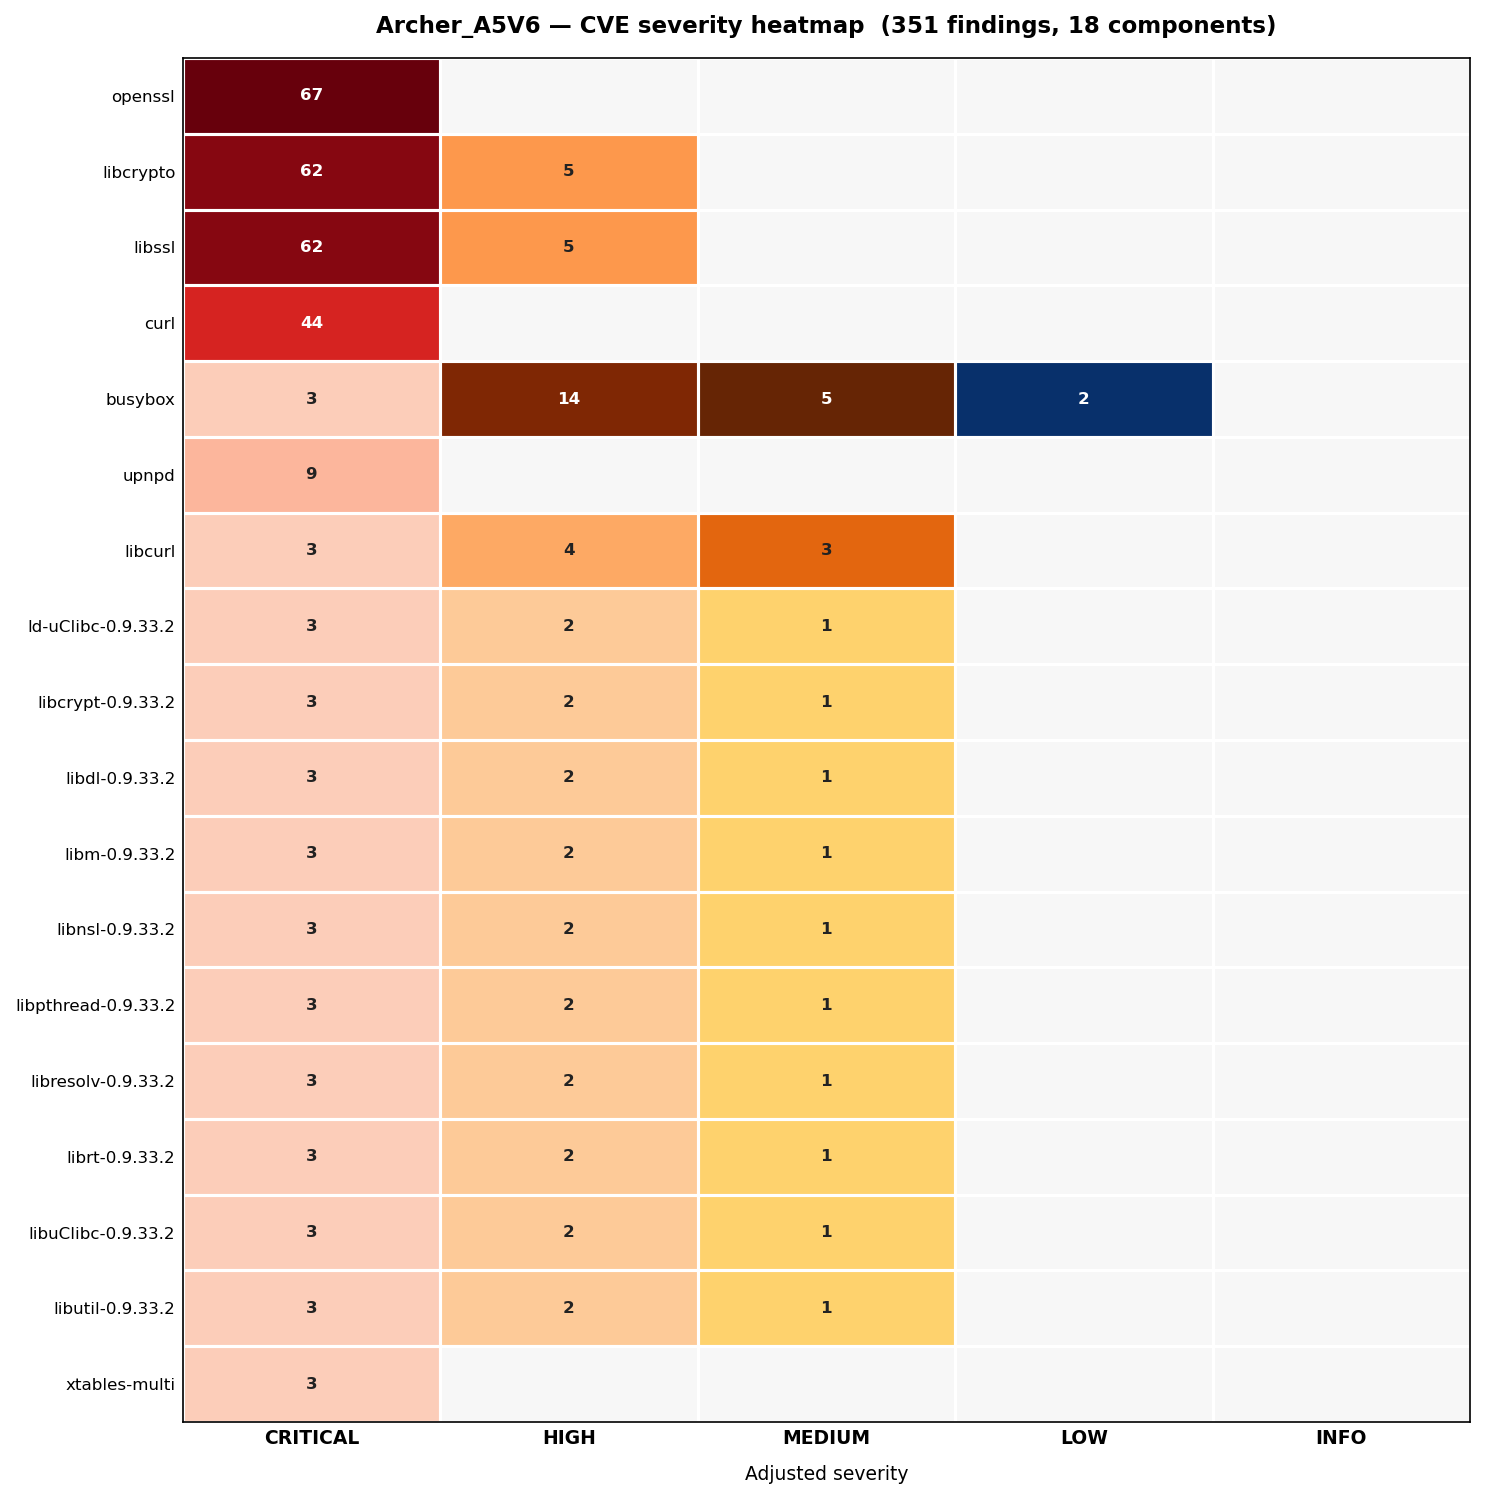
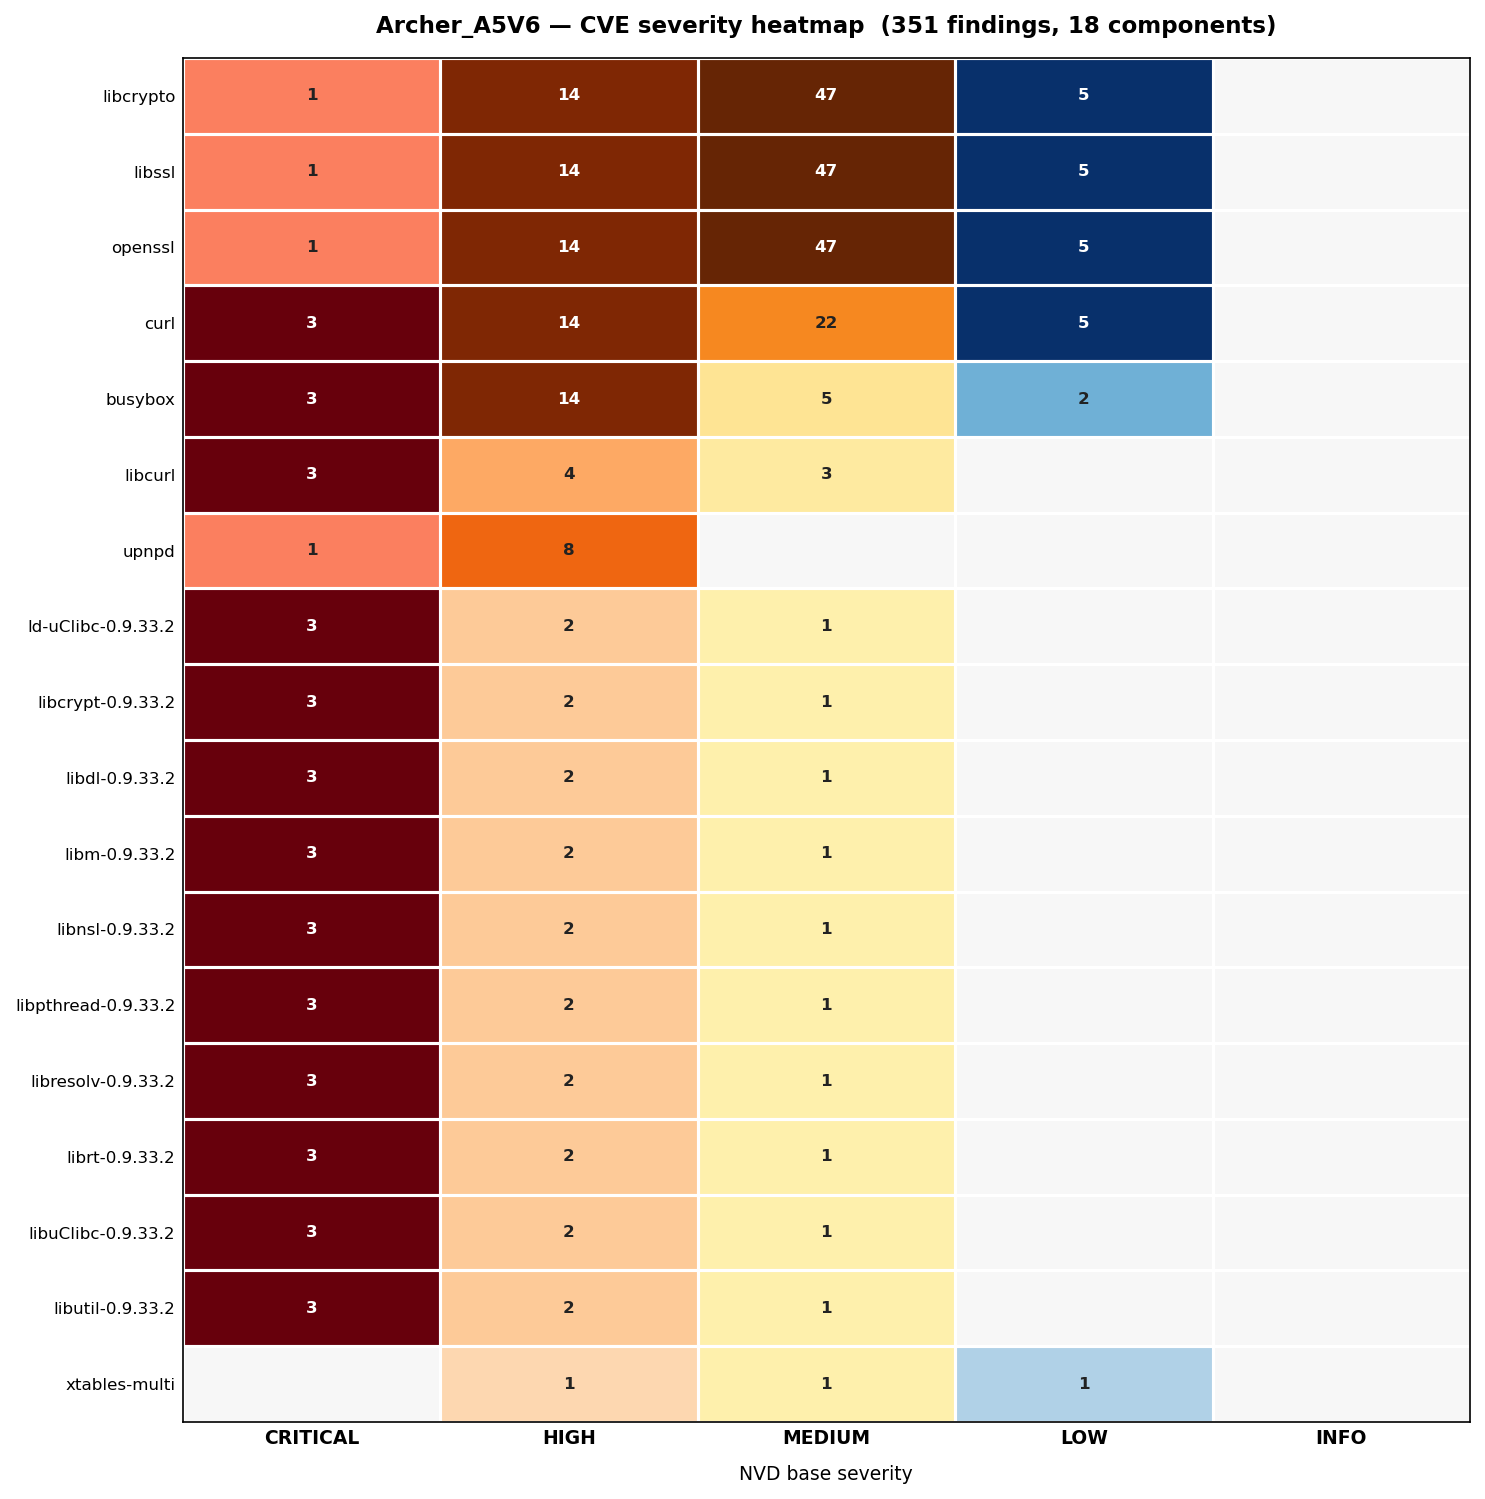
modyfing heatmap to show base NVD severity

diff --git a/firmware_analysis/reporting/heatmap.py b/firmware_analysis/reporting/heatmap.py
@@ -55,7 +55,7 @@ def _build_matrix(vulnerabilities: list[dict], top: int) -> tuple[list[str], np.
     counts: dict[str, dict[str, int]] = defaultdict(lambda: defaultdict(int))
     for v in vulnerabilities:
         comp = v.get("component", "unknown")
-        sev  = v.get("adjusted_severity", "info").lower()
+        sev  = v.get("base_severity", "info").lower()
         counts[comp][sev] += 1
 
     # Sort by weighted score descending, then alphabetically for ties.
@@ -127,7 +127,7 @@ def _draw(
         f"{firmware_id} — CVE severity heatmap  ({total} findings, {n_rows} components)",
         fontsize=11, fontweight="bold", pad=12,
     )
-    ax.set_xlabel("Adjusted severity", fontsize=9, labelpad=8)
+    ax.set_xlabel("NVD base severity", fontsize=9, labelpad=8)
 
     plt.tight_layout()
     fig.savefig(out_path, dpi=150, bbox_inches="tight")
